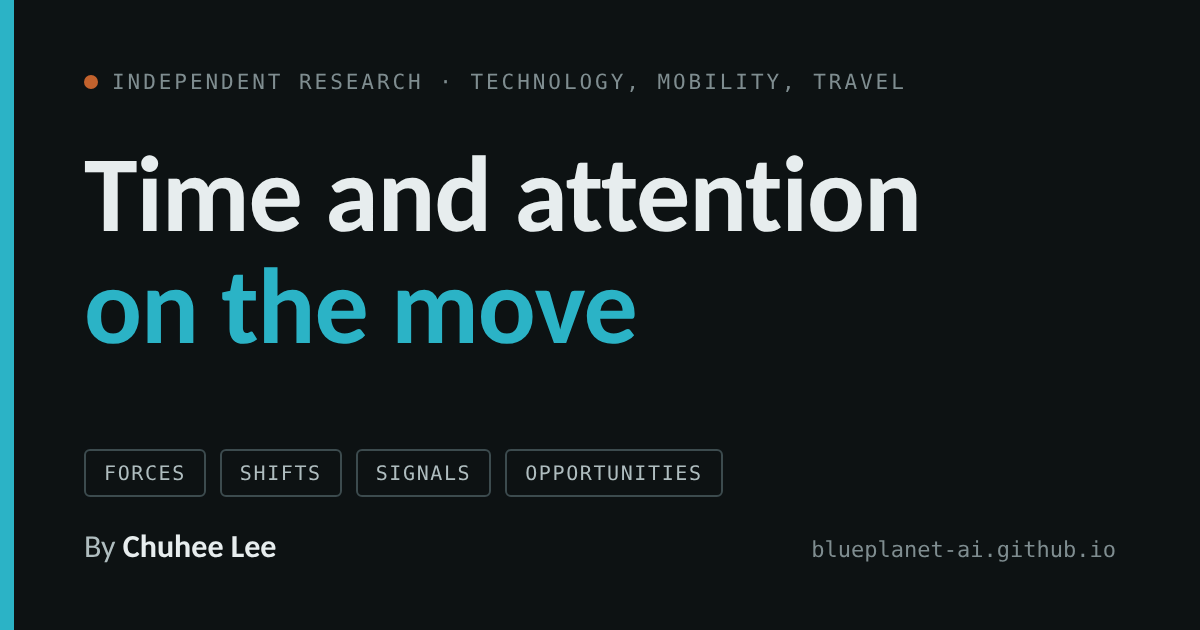
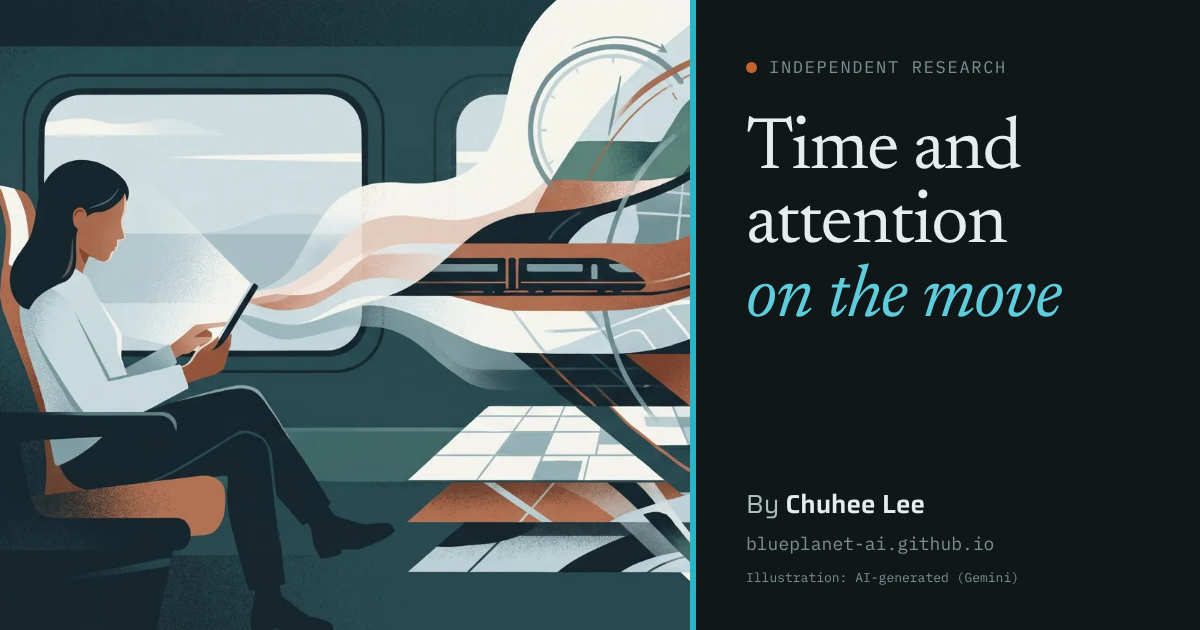
Home hero: Gemini illustration, new social preview, prompt log
- Hero uses the Gemini illustration (WebP 1600/800 px), labelled AI-generated
- Journey-line figure moves to open "How topics are found"
- og-image.png redrawn with the illustration, title and label
- media/prompts.md records the request and settings behind each AI-generated item
- CHANGELOG updated

Claude-Session: https://claude.ai/code/session_018ZhAqt4uapvSFRRb7qF8rj

diff --git a/index.html b/index.html
@@ -17,7 +17,7 @@
 <meta property="og:image" content="https://blueplanet-ai.github.io/og-image.png">
 <meta property="og:image:width" content="1200">
 <meta property="og:image:height" content="630">
-<meta property="og:image:alt" content="Time and attention on the move: independent research by Chuhee Lee on technology, mobility and travel.">
+<meta property="og:image:alt" content="Time and attention on the move: independent research by Chuhee Lee. AI-generated illustration of a rider reading on a train while travel modes flow past the window.">
 <meta name="twitter:card" content="summary_large_image">
 <meta name="twitter:image" content="https://blueplanet-ai.github.io/og-image.png">
 <style>img{max-width:100%}[hidden]{display:none!important}</style>
@@ -96,6 +96,13 @@ a:focus-visible,button:focus-visible{outline:2px solid var(--signal);outline-off
 .byline{font-family:var(--font-ui);font-size:14px;color:var(--ink-3);display:flex;flex-wrap:wrap;gap:6px 18px;}
 .byline b{color:var(--ink);font-weight:600;}
 @media (max-width:860px){.mast-top{grid-template-columns:1fr;}}
+
+/* hero image */
+.hero-img{margin:0;display:grid;gap:8px;}
+.hero-img img{display:block;width:100%;height:auto;aspect-ratio:1600/893;object-fit:cover;background:var(--plate);}
+@media (max-width:640px){.hero-img img{aspect-ratio:4/3;object-position:22% 50%;}}
+.hero-img figcaption{border-top:1px solid var(--line);padding-top:8px;font-family:var(--font-mono);font-size:11px;letter-spacing:.04em;color:var(--ink-3);}
+.lens-figure{margin-bottom:22px;}
 
 /* journey illustration */
 .journey{margin:0;display:grid;gap:8px;}
@@ -264,7 +271,7 @@ a.pub:hover .pub-title{color:var(--signal-deep);}
 @media (prefers-reduced-motion:no-preference){
   .map [data-col],.pub{transition:opacity .2s;}
 }
-@media print{.pub-cover,.preview,.journey,.topbar,.follow-band{display:none}}
+@media print{.pub-cover,.preview,.journey,.hero-img,.topbar,.follow-band{display:none}}
 </style>
 
 <style media="print">
@@ -311,38 +318,9 @@ table{font-size:9pt;min-width:0!important;width:100%!important}
     </div>
   </div>
 
-  <figure class="journey">
-    <svg class="wide" viewBox="0 0 1200 330" role="img" aria-label="Illustration: one journey line through car, rail, robotaxi and plane. As people move from driving to riding, free attention grows and is spent on reading, watching, working, learning and rest.">
-      <path class="j-band" d="M40 250 C 260 250 260 238 360 238 C 520 238 520 140 760 140 C 920 140 950 100 1160 100 L1160 250 Z"/>
-      <path class="j-edge" d="M40 250 C 260 250 260 238 360 238 C 520 238 520 140 760 140 C 920 140 950 100 1160 100"/>
-      <line class="j-line" x1="40" y1="250" x2="1160" y2="250"/>
-      <circle class="j-stop" cx="170" cy="250" r="11"/><circle class="j-stop" cx="470" cy="250" r="11"/><circle class="j-stop" cx="780" cy="250" r="11"/><circle class="j-stop" cx="1080" cy="250" r="11"/>
-      <g class="j-label" font-size="17" text-anchor="middle"><text x="170" y="290">Car</text><text x="470" y="290">Rail</text><text x="780" y="290">Robotaxi</text><text x="1080" y="290">Plane</text></g>
-      <g class="j-sub" font-size="12" text-anchor="middle"><text x="170" y="312">DRIVING</text><text x="470" y="312">RIDING</text><text x="780" y="312">RIDING</text><text x="1080" y="312">THE JOURNEY</text></g>
-      <g class="j-ico">
-        <g transform="translate(156,196)"><circle cx="14" cy="14" r="12"/><circle cx="14" cy="14" r="3"/><path d="M2 14h9M17 14h9M14 17v9"/></g>
-        <g transform="translate(420,178)"><rect x="6" y="2" width="16" height="26" rx="3"/><path d="M11 24h6"/></g>
-        <g transform="translate(492,166)"><path d="M3 6h9a4 4 0 0 1 4 4v16a3 3 0 0 0-3-3H3zM29 6h-9a4 4 0 0 0-4 4v16a3 3 0 0 1 3-3h10z"/></g>
-        <g transform="translate(704,108)"><rect x="2" y="4" width="26" height="18" rx="2"/><path d="M12 9l7 4-7 4z"/><path d="M9 27h12"/></g>
-        <g transform="translate(760,92)"><rect x="5" y="5" width="20" height="14" rx="1.5"/><path d="M1 24h28"/></g>
-        <g transform="translate(818,106)"><circle cx="9" cy="16" r="6"/><circle cx="23" cy="16" r="6"/><path d="M3 16V12a12 12 0 0 1 24 0v4"/></g>
-        <g transform="translate(1012,70)"><path d="M3 8l12-5 12 5-12 5z"/><path d="M8 11v7c3 3 11 3 14 0v-7"/></g>
-        <g transform="translate(1066,52)"><path d="M22 18a10 10 0 1 1-9-14 8 8 0 0 0 9 14z"/></g>
-        <g transform="translate(1116,74)"><path d="M3 6h9a4 4 0 0 1 4 4v16a3 3 0 0 0-3-3H3zM29 6h-9a4 4 0 0 0-4 4v16a3 3 0 0 1 3-3h10z"/></g>
-      </g>
-      <g class="j-note" font-size="19"><text x="210" y="226">a driver has little attention to give</text><text x="560" y="126">a rider has a lot</text></g>
-      <path class="j-pointer" d="M560 132 C 600 150 610 168 640 184"/>
-    </svg>
-    <svg class="narrow" viewBox="0 0 350 170" role="img" aria-label="Illustration: free attention grows from car to rail to robotaxi to plane, as people move from driving to riding.">
-      <path class="j-band" d="M10 112 C 70 112 80 106 110 106 C 160 106 170 62 240 62 C 290 62 300 44 340 44 L340 112 Z"/>
-      <path class="j-edge" d="M10 112 C 70 112 80 106 110 106 C 160 106 170 62 240 62 C 290 62 300 44 340 44"/>
-      <line class="j-line" x1="10" y1="112" x2="340" y2="112"/>
-      <circle class="j-stop" cx="45" cy="112" r="7"/><circle class="j-stop" cx="135" cy="112" r="7"/><circle class="j-stop" cx="230" cy="112" r="7"/><circle class="j-stop" cx="315" cy="112" r="7"/>
-      <g class="j-label" font-size="13" text-anchor="middle"><text x="45" y="138">Car</text><text x="135" y="138">Rail</text><text x="230" y="138">Robotaxi</text><text x="315" y="138">Plane</text></g>
-      <g class="j-sub" font-size="9" text-anchor="middle"><text x="45" y="156">DRIVING</text><text x="135" y="156">RIDING</text><text x="230" y="156">RIDING</text><text x="315" y="156">JOURNEY</text></g>
-      <g class="j-note" font-size="13"><text x="60" y="92">little attention free</text><text x="170" y="40">a lot free</text></g>
-    </svg>
-    <figcaption><span>Shaded band: attention that is free to spend. Illustrative, not to scale.</span><span>Drawn for this site</span></figcaption>
+  <figure class="hero-img">
+    <img src="media/home-hero-1600.webp" srcset="media/home-hero-800.webp 800w, media/home-hero-1600.webp 1600w" sizes="(max-width:1180px) 100vw, 1140px" width="1600" height="893" fetchpriority="high" alt="Illustration: a woman reads a tablet in a train seat by the window; beyond the window, layers of landscape, map grids, a train, a bus and a plane flow past.">
+    <figcaption>AI-generated illustration (Gemini).</figcaption>
   </figure>
 
   <a class="latest" id="latest" href="physical-ai-cabin/" hidden><span class="k">Latest</span><span class="t"></span><span class="m"></span><span class="go">Read the report →</span></a>
@@ -476,6 +454,39 @@ table{font-size:9pt;min-width:0!important;width:100%!important}
 
   <section id="lenses">
     <div class="sec-head"><h2>How topics are found</h2><span class="eyebrow">Six lenses on the person on the move</span></div>
+    <figure class="journey lens-figure">
+    <svg class="wide" viewBox="0 0 1200 330" role="img" aria-label="Illustration: one journey line through car, rail, robotaxi and plane. As people move from driving to riding, free attention grows and is spent on reading, watching, working, learning and rest.">
+      <path class="j-band" d="M40 250 C 260 250 260 238 360 238 C 520 238 520 140 760 140 C 920 140 950 100 1160 100 L1160 250 Z"/>
+      <path class="j-edge" d="M40 250 C 260 250 260 238 360 238 C 520 238 520 140 760 140 C 920 140 950 100 1160 100"/>
+      <line class="j-line" x1="40" y1="250" x2="1160" y2="250"/>
+      <circle class="j-stop" cx="170" cy="250" r="11"/><circle class="j-stop" cx="470" cy="250" r="11"/><circle class="j-stop" cx="780" cy="250" r="11"/><circle class="j-stop" cx="1080" cy="250" r="11"/>
+      <g class="j-label" font-size="17" text-anchor="middle"><text x="170" y="290">Car</text><text x="470" y="290">Rail</text><text x="780" y="290">Robotaxi</text><text x="1080" y="290">Plane</text></g>
+      <g class="j-sub" font-size="12" text-anchor="middle"><text x="170" y="312">DRIVING</text><text x="470" y="312">RIDING</text><text x="780" y="312">RIDING</text><text x="1080" y="312">THE JOURNEY</text></g>
+      <g class="j-ico">
+        <g transform="translate(156,196)"><circle cx="14" cy="14" r="12"/><circle cx="14" cy="14" r="3"/><path d="M2 14h9M17 14h9M14 17v9"/></g>
+        <g transform="translate(420,178)"><rect x="6" y="2" width="16" height="26" rx="3"/><path d="M11 24h6"/></g>
+        <g transform="translate(492,166)"><path d="M3 6h9a4 4 0 0 1 4 4v16a3 3 0 0 0-3-3H3zM29 6h-9a4 4 0 0 0-4 4v16a3 3 0 0 1 3-3h10z"/></g>
+        <g transform="translate(704,108)"><rect x="2" y="4" width="26" height="18" rx="2"/><path d="M12 9l7 4-7 4z"/><path d="M9 27h12"/></g>
+        <g transform="translate(760,92)"><rect x="5" y="5" width="20" height="14" rx="1.5"/><path d="M1 24h28"/></g>
+        <g transform="translate(818,106)"><circle cx="9" cy="16" r="6"/><circle cx="23" cy="16" r="6"/><path d="M3 16V12a12 12 0 0 1 24 0v4"/></g>
+        <g transform="translate(1012,70)"><path d="M3 8l12-5 12 5-12 5z"/><path d="M8 11v7c3 3 11 3 14 0v-7"/></g>
+        <g transform="translate(1066,52)"><path d="M22 18a10 10 0 1 1-9-14 8 8 0 0 0 9 14z"/></g>
+        <g transform="translate(1116,74)"><path d="M3 6h9a4 4 0 0 1 4 4v16a3 3 0 0 0-3-3H3zM29 6h-9a4 4 0 0 0-4 4v16a3 3 0 0 1 3-3h10z"/></g>
+      </g>
+      <g class="j-note" font-size="19"><text x="210" y="226">a driver has little attention to give</text><text x="560" y="126">a rider has a lot</text></g>
+      <path class="j-pointer" d="M560 132 C 600 150 610 168 640 184"/>
+    </svg>
+    <svg class="narrow" viewBox="0 0 350 170" role="img" aria-label="Illustration: free attention grows from car to rail to robotaxi to plane, as people move from driving to riding.">
+      <path class="j-band" d="M10 112 C 70 112 80 106 110 106 C 160 106 170 62 240 62 C 290 62 300 44 340 44 L340 112 Z"/>
+      <path class="j-edge" d="M10 112 C 70 112 80 106 110 106 C 160 106 170 62 240 62 C 290 62 300 44 340 44"/>
+      <line class="j-line" x1="10" y1="112" x2="340" y2="112"/>
+      <circle class="j-stop" cx="45" cy="112" r="7"/><circle class="j-stop" cx="135" cy="112" r="7"/><circle class="j-stop" cx="230" cy="112" r="7"/><circle class="j-stop" cx="315" cy="112" r="7"/>
+      <g class="j-label" font-size="13" text-anchor="middle"><text x="45" y="138">Car</text><text x="135" y="138">Rail</text><text x="230" y="138">Robotaxi</text><text x="315" y="138">Plane</text></g>
+      <g class="j-sub" font-size="9" text-anchor="middle"><text x="45" y="156">DRIVING</text><text x="135" y="156">RIDING</text><text x="230" y="156">RIDING</text><text x="315" y="156">JOURNEY</text></g>
+      <g class="j-note" font-size="13"><text x="60" y="92">little attention free</text><text x="170" y="40">a lot free</text></g>
+    </svg>
+    <figcaption><span>Shaded band: attention that is free to spend. Illustrative, not to scale.</span><span>Drawn for this site</span></figcaption>
+  </figure>
     <div class="lenses">
       <div class="lens person"><svg class="ico" data-ico="time" viewBox="0 0 24 24" aria-hidden="true"></svg><span class="k">The person</span><h3>Time</h3><p>How long, and how often. Any length of time gets spent on something.</p></div>
       <div class="lens person"><svg class="ico" data-ico="attention" viewBox="0 0 24 24" aria-hidden="true"></svg><span class="k">The person</span><h3>Attention</h3><p>What is free to give. A driver has little; a rider has a lot.</p></div>

diff --git a/media/prompts.md b/media/prompts.md
@@ -1,0 +1,15 @@
+# Media prompts
+
+Every AI-generated image, animation, video, audio overview or infographic on this site is listed here with the prompt and settings that produced it, so each one can be traced and regenerated. Style rules and templates for new media are in the author's media style kit; every item carries a visible "AI-generated" label where it appears.
+
+## Home page hero — `media/home-hero-1600.webp`, `media/home-hero-800.webp`
+
+- **Tool:** Gemini app (image generation). Model version not recorded.
+- **Created:** 16 October 2026, before the media style kit existed. Gemini had looked at the site as it was before the 17 October redesign.
+- **Request (Chuhee):** "Can you suggest any images for the site? These can be user for Illustrations across the site"
+- **Gemini's description of what it made (its own words, abridged):** an editorial-style hero illustration, "a textured, modern editorial illustration", using the site's palette of "deep teals, slate blues, rust/orange accents, and warm sand grays", showing "people moving (by train, plane, and transit), their attention engaged in digital media and reading, and the overlapping macro forces and pathways that connect Mobility, Travel, and Entertainment."
+- **Exact image prompt:** not shown by Gemini; Gemini wrote it internally from the request above.
+- **Edits:** none to the picture. Converted from the original 2576 × 1438 JPEG to WebP at 1600 and 800 px wide; on phones the page crops it to 4:3 around the rider.
+- **Label on the page:** "AI-generated illustration (Gemini)."
+- **Also used in:** the home page social preview, `og-image.png` (1200 × 630), with the label "Illustration: AI-generated (Gemini)".
+- **Alt text:** "Illustration: a woman reads a tablet in a train seat by the window; beyond the window, layers of landscape, map grids, a train, a bus and a plane flow past."

diff --git a/CHANGELOG.md b/CHANGELOG.md
@@ -5,7 +5,9 @@
 ### 17 October 2026 — editorial home page, icon set and report covers (visual refresh, part 1 of 3)
 - Home page redesigned as an editorial front page. Titles and section headings now use Newsreader; Saira stays for labels, navigation and data. No copy was rewritten except the map's empty cells ("Coming" is now "Planned"; the Mobility opportunity cell reads "First brief in progress").
 - New top bar with section links and a Follow link.
-- New hero illustration, the "journey line": car, rail, robotaxi and plane, with a shaded band for attention that is free to spend as people move from driving to riding. It is labelled as illustrative, not to scale. It replaces the "route" pictogram.
+- New hero image: an editorial illustration of a rider on a train, generated with Gemini and labelled "AI-generated illustration (Gemini)". It replaces the "route" pictogram. Its request and settings are recorded in `media/prompts.md`, which will list every AI-generated item on the site.
+- The home page social preview (`og-image.png`) now uses the same image, with the title and the same label.
+- New drawn figure, the "journey line": car, rail, robotaxi and plane, with a shaded band for attention that is free to spend as people move from driving to riding, labelled as illustrative, not to scale. It opens "How topics are found".
 - A "Latest" strip under the hero, built from the first publication card.
 - One icon set (24 × 24 grid, 1.6 stroke) for domains, layers, lenses and reader actions, used in the map, filters, tags and lenses.
 - Map: layer icons on each row; pointing to a report shows a preview (cover, description, data-as-of date) beside the map on wide screens; on phones the map becomes a stacked list by layer, with the same domain filter.
